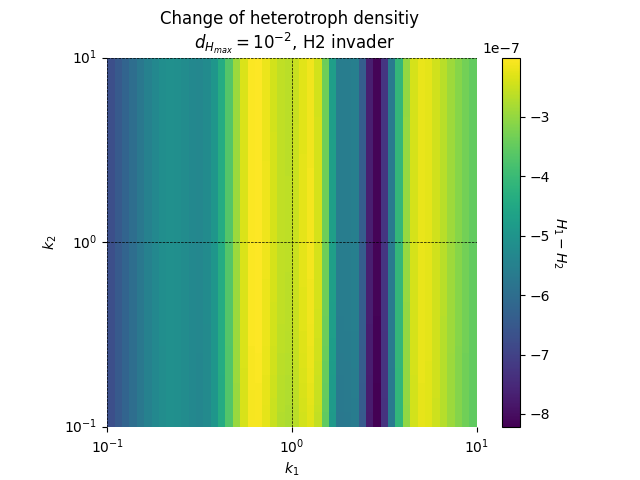
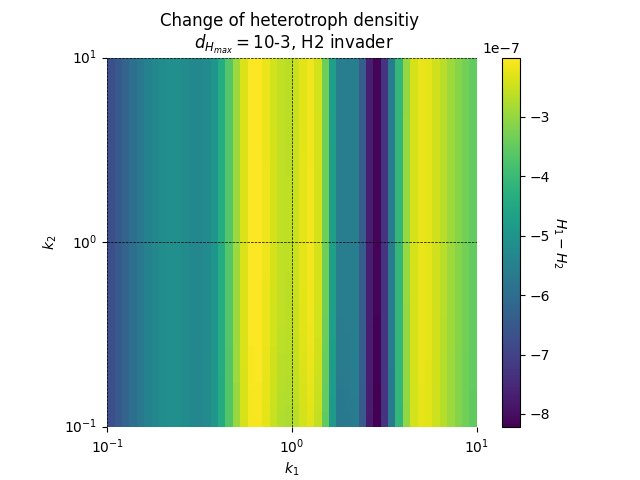
small fix to naming

Changed region(s): [[0.25, 0.0, 0.6562, 0.125]]

diff --git a/modellib/invasion_growthrate.py b/modellib/invasion_growthrate.py
@@ -6,12 +6,12 @@ from matplotlib import pyplot as plt
 import seaborn as sns
 ###
 
-H1a = np.loadtxt("./data/growthrate10-2/H1a.csv", delimiter=",")
-H1b = np.loadtxt("./data/growthrate10-2/H1b.csv", delimiter=",")
-H2a = np.loadtxt("./data/growthrate10-2/H2a.csv", delimiter=",")
-H2b = np.loadtxt("./data/growthrate10-2/H2b.csv", delimiter=",")
+H1a = np.loadtxt("./data/growthrate10-3/H1a.csv", delimiter=",")
+H1b = np.loadtxt("./data/growthrate10-3/H1b.csv", delimiter=",")
+H2a = np.loadtxt("./data/growthrate10-3/H2a.csv", delimiter=",")
+H2b = np.loadtxt("./data/growthrate10-3/H2b.csv", delimiter=",")
 
-d_Hmax = "10-2"
+d_Hmax = "10-3"
 k_1_range = np.geomspace(0.1, 10, 50)
 ticks = np.append(k_1_range, 10)
 
@@ -29,7 +29,7 @@ plt.grid(color='black', linewidth=0.5, linestyle='--')
 plt.xlabel('$k_1$')
 plt.ylabel('$k_2$')
 plt.title(
-    'Change of heterotroph densitiy \n $d_{H_{max}} = 10^{-2}$, H2 invader')
+    'Change of heterotroph densitiy \n $d_{H_{max}} = $' + str(d_Hmax) + ', H2 invader')
 plt.savefig('./output/invasion_growthrate_'+str(d_Hmax)+'_H1-H2.png')
 
 # H1 change
@@ -47,7 +47,7 @@ ax2.set_yticklabels(("$10^{-1}$", "$10^{0}$", "$10^{1}$"))
 plt.grid(color='black', linewidth=0.5, linestyle='--')
 plt.xlabel('$k_1$')
 plt.ylabel('$k_2$')
-plt.title('Growth rate of $H_1$ \n $d_{H_{max}} = 10^{-2}$, H2 invader')
+plt.title('Growth rate of $H_1$ \n $d_{H_{max}} = $' + str(d_Hmax) + ', H2 invader')
 plt.savefig('./output/invasion_growthrate_'+str(d_Hmax)+'_H1.png')
 
 # H2 change
@@ -65,5 +65,5 @@ ax3.set_yticklabels(("$10^{-1}$", "$10^{0}$", "$10^{1}$"))
 plt.grid(color='black', linewidth=0.5, linestyle='--')
 plt.xlabel('$k_1$')
 plt.ylabel('$k_2$')
-plt.title('Growth rate of $H_2$ \n $d_{H_{max}} = 10^{-2}$, H2 invader')
+plt.title('Growth rate of $H_2$ \n $d_{H_{max}} = $' + str(d_Hmax) + ', H2 invader')
 plt.savefig('./output/invasion_growthrate_'+str(d_Hmax)+'_H2.png')
